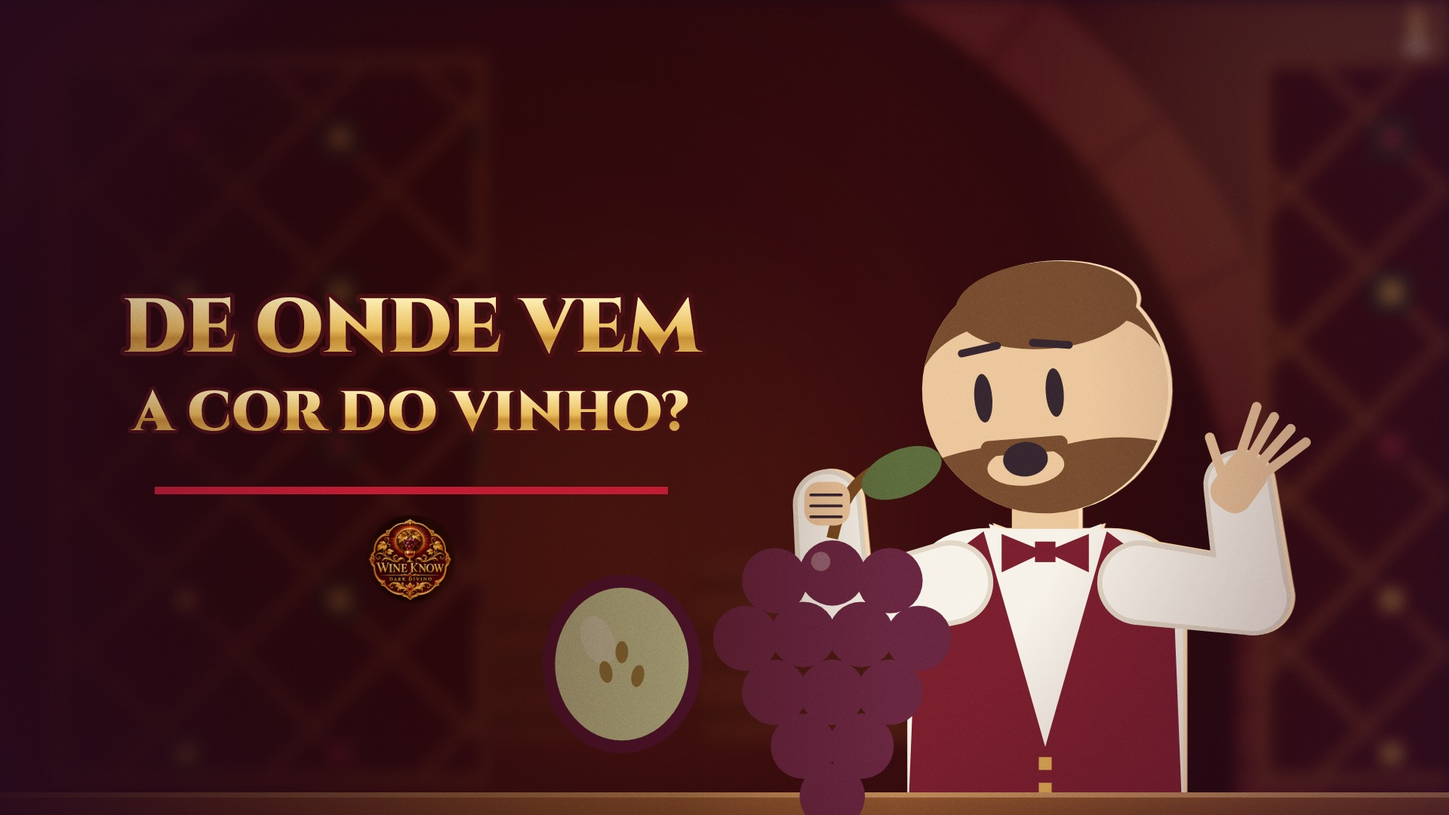
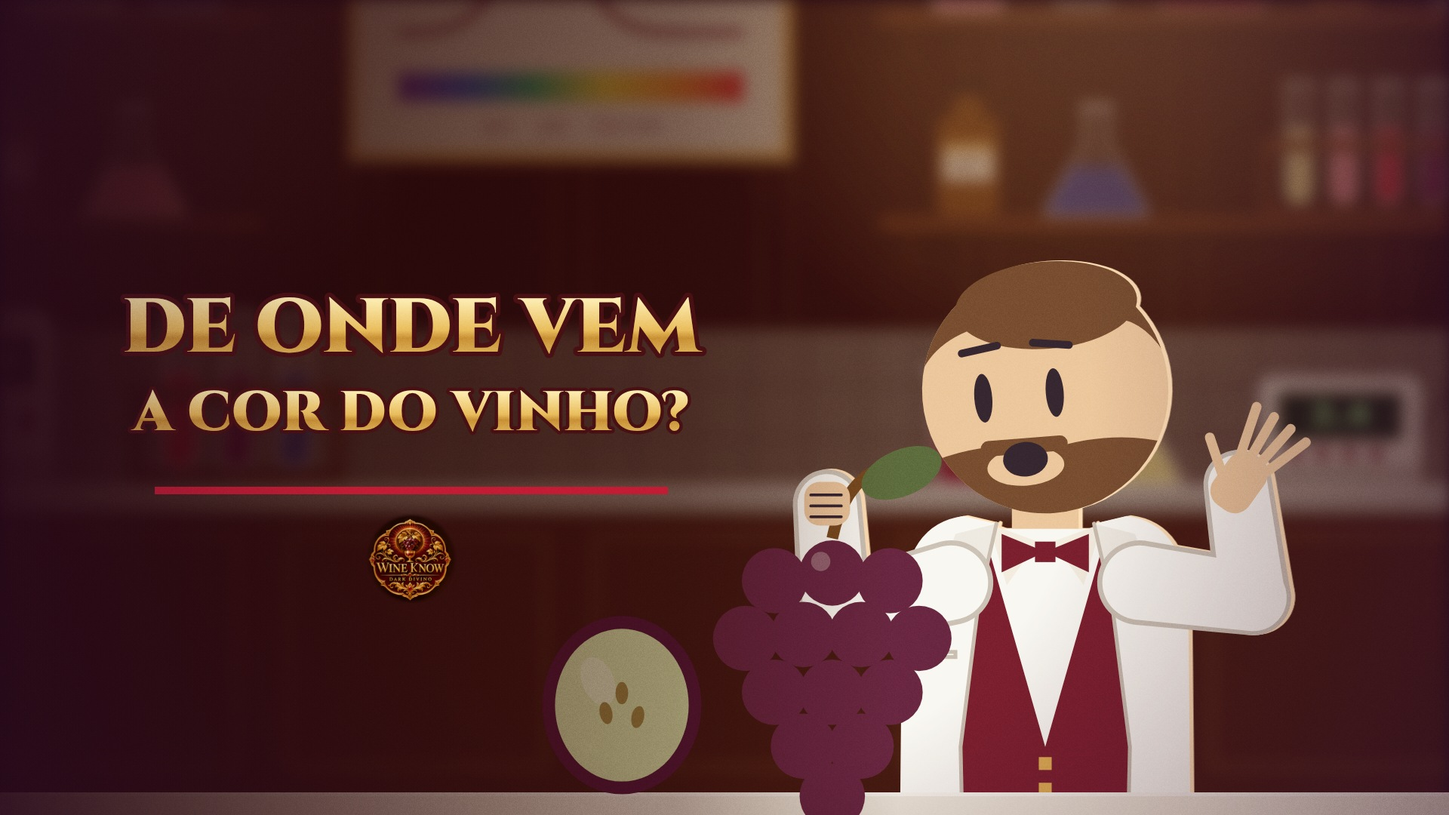
Video 10: thumb com fundo de laboratorio e projeto de cenas
Claude-Session: https://claude.ai/code/session_01Xc7qjeV8m98AoCZPYGJz9u

diff --git a/pauta/10-tinto-branco/sets_lab.js b/pauta/10-tinto-branco/sets_lab.js
@@ -1,0 +1,167 @@
+// ---------- vídeo 10 "De onde vem a cor do vinho?" — LABORATÓRIO de análise de vinho (madeira escura, luz quente, bancada clara/inox) ----------
+// cores de antocianina: vermelho (ácido) -> roxo -> azul (menos ácido)
+const ANT={red:'#C0182E',purple:'#5A1450',blue:'#2A3A8E',wine:'#7A1028',young:'#4E0E3A',brick:'#9A4A26',rose:'#E8788A',white:'#E8D98A',orange:'#D9862E'};
+// tubo de ensaio: base = fundo arredondado; liquido sempre dentro do vidro
+function testTube(x,cx,base,h,col,lv=.6,w=34){x.save();const r=w/2,top=base-h;
+ const shape=()=>{x.beginPath();x.moveTo(cx-r,top);x.lineTo(cx-r,base-r);x.arc(cx,base-r,r,Math.PI,0,true);x.lineTo(cx+r,top);x.closePath()};
+ shape();x.fillStyle='rgba(230,240,245,.16)';x.fill();
+ if(lv>0&&col){x.save();shape();x.clip();x.fillStyle=col;x.fillRect(cx-r-2,base-h*lv,w+4,h*lv+2);x.fillStyle='rgba(255,255,255,.28)';x.fillRect(cx-r,base-h*lv,w,3);x.restore()}
+ shape();x.strokeStyle='rgba(235,240,245,.75)';x.lineWidth=3;x.stroke();x.fillStyle='rgba(255,255,255,.35)';x.fillRect(cx-r+6,top+10,4,h-r-20);
+ x.strokeStyle='rgba(235,240,245,.85)';x.lineWidth=5;x.beginPath();x.moveTo(cx-r-4,top);x.lineTo(cx+r+4,top);x.stroke();x.restore()}
+// estante de tubos (madeira) com tubos coloridos
+function tubeRack(x,cx,base,cols,s=1,lv=.62){x.save();x.translate(cx,base);x.scale(s,s);const n=cols.length,w=n*56+40;
+ x.fillStyle='#4A2414';x.fillRect(-w/2,-14,w,14);x.fillRect(-w/2,-14,10,-0);
+ cols.forEach((c,i)=>testTube(x,-w/2+48+i*56,-16,150,c,lv,32));
+ x.fillStyle='#6A3A1E';x.fillRect(-w/2,-96,w,16);x.fillStyle='rgba(0,0,0,.25)';x.fillRect(-w/2,-82,w,4);
+ x.fillStyle='#4A2414';x.fillRect(-w/2,-96,12,96);x.fillRect(w/2-12,-96,12,96);x.restore()}
+// béquer graduado
+function beaker(x,cx,base,w,h,col,lv=.55){x.save();const L_=cx-w/2,R=cx+w/2,top=base-h;
+ const shape=()=>{x.beginPath();x.moveTo(L_-8,top);x.lineTo(L_,top+10);x.lineTo(L_,base-8);x.quadraticCurveTo(L_,base,L_+8,base);x.lineTo(R-8,base);x.quadraticCurveTo(R,base,R,base-8);x.lineTo(R,top);x.closePath()};
+ shape();x.fillStyle='rgba(230,240,245,.14)';x.fill();
+ if(lv>0&&col){x.save();shape();x.clip();x.fillStyle=col;x.fillRect(L_-10,base-h*lv,w+20,h*lv);x.fillStyle='rgba(255,255,255,.25)';x.fillRect(L_,base-h*lv,w,3);x.restore()}
+ shape();x.strokeStyle='rgba(235,240,245,.75)';x.lineWidth=3;x.stroke();
+ x.strokeStyle='rgba(235,240,245,.55)';x.lineWidth=2;for(let i=1;i<5;i++){const y=base-h*i/5.4;x.beginPath();x.moveTo(L_+6,y);x.lineTo(L_+(i%2?26:16),y);x.stroke()}x.restore()}
+// erlenmeyer
+function erlen(x,cx,base,s,col,lv=.4){x.save();x.translate(cx,base);x.scale(s,s);
+ const shape=()=>{x.beginPath();x.moveTo(-14,-120);x.lineTo(-14,-80);x.lineTo(-56,-6);x.quadraticCurveTo(-58,0,-50,0);x.lineTo(50,0);x.quadraticCurveTo(58,0,56,-6);x.lineTo(14,-80);x.lineTo(14,-120);x.closePath()};
+ shape();x.fillStyle='rgba(230,240,245,.14)';x.fill();if(col){x.save();shape();x.clip();x.fillStyle=col;x.fillRect(-60,-120*lv,120,120*lv);x.restore()}
+ shape();x.strokeStyle='rgba(235,240,245,.7)';x.lineWidth=3;x.stroke();x.fillStyle='rgba(235,240,245,.8)';x.fillRect(-18,-124,36,6);x.restore()}
+// frasco de reagente com rótulo
+function reagent(x,cx,base,s,glass,col){x.save();x.translate(cx,base);x.scale(s,s);x.fillStyle=glass;x.beginPath();x.roundRect(-30,-96,60,96,10);x.fill();x.fillRect(-14,-118,28,24);
+ x.fillStyle='#1A1012';x.fillRect(-17,-130,34,14);x.fillStyle='#EFE6D2';x.fillRect(-24,-70,48,36);x.fillStyle=col||BORDO;x.fillRect(-24,-70,48,8);x.fillStyle='rgba(60,40,30,.6)';x.fillRect(-16,-54,32,3);x.fillRect(-16,-46,24,3);x.restore()}
+// pHmetro: caixa com visor + eletrodo num béquer
+function phMeter(x,cx,base,s,val,col,glow=1){x.save();x.translate(cx,base);x.scale(s,s);
+ x.fillStyle='#D8D4CC';x.beginPath();x.roundRect(-90,-120,180,120,14);x.fill();x.fillStyle='#A9A49A';x.fillRect(-90,-22,180,22);
+ x.fillStyle='#14231C';x.beginPath();x.roundRect(-70,-104,140,56,8);x.fill();
+ x.fillStyle=`rgba(140,255,170,${.9*glow})`;x.font='700 34px monospace';x.textAlign='center';x.textBaseline='middle';x.fillText(val,0,-75);
+ x.fillStyle='#5E1428';for(const bx of [-50,-20,10,40]){x.beginPath();x.arc(bx,-34,8,0,7);x.fill()}
+ x.strokeStyle='#2A2226';x.lineWidth=5;x.beginPath();x.moveTo(90,-60);x.quadraticCurveTo(150,-150,190,-150);x.stroke();
+ x.fillStyle='#2A2226';x.fillRect(184,-160,14,20);x.fillStyle='#E0E6E8';x.fillRect(186,-140,10,110);x.restore();
+ beaker(x,cx+191*s,base,90*s,90*s,col,.6)}
+// espectrofotômetro: aparelho com cubeta; feixe de luz atravessa (beam 0..1); out = cor do feixe que sai
+function spectro(x,cx,base,s,t,beam=1,col=ANT.wine,out='rgba(255,70,80,1)'){x.save();x.translate(cx,base);x.scale(s,s);
+ // corpo
+ let g=x.createLinearGradient(0,-170,0,0);g.addColorStop(0,'#E4E0D8');g.addColorStop(1,'#B8B2A6');x.fillStyle=g;x.beginPath();x.roundRect(-170,-170,340,170,18);x.fill();
+ x.fillStyle='#8E8A80';x.fillRect(-170,-26,340,26);x.fillStyle='#2A2226';x.beginPath();x.roundRect(-40,-196,80,34,6);x.fill();// tampa da cubeta
+ // janela de vidro mostrando o feixe
+ x.fillStyle='#120A0E';x.beginPath();x.roundRect(-150,-140,200,70,10);x.fill();
+ if(beam>0){x.save();x.beginPath();x.roundRect(-150,-140,200,70,10);x.clip();
+  const lg=x.createLinearGradient(-150,0,50,0);lg.addColorStop(0,`rgba(255,255,240,${beam})`);lg.addColorStop(.42,`rgba(255,255,240,${beam})`);lg.addColorStop(.6,out.replace(/,1\)$/,`,${beam})`));lg.addColorStop(1,out.replace(/,1\)$/,`,${beam})`));
+  x.fillStyle=lg;x.fillRect(-150,-112,200,14);x.globalAlpha=.35*beam;x.fillRect(-150,-118,200,26);x.restore()}
+ // cubeta com vinho no meio do feixe
+ x.fillStyle='rgba(230,240,245,.35)';x.fillRect(-72,-150,30,90);x.fillStyle=col;x.fillRect(-69,-132,24,70);x.strokeStyle='rgba(240,245,250,.8)';x.lineWidth=2;x.strokeRect(-72,-150,30,90);
+ // visor digital
+ x.fillStyle='#14231C';x.beginPath();x.roundRect(70,-146,84,52,8);x.fill();x.fillStyle=`rgba(140,255,170,.9)`;x.font='700 26px monospace';x.textAlign='center';x.textBaseline='middle';x.fillText('520',112,-120);
+ x.fillStyle=GOLD;x.font='700 15px Cinzel';x.fillText('nm',112,-102);
+ x.fillStyle='#5E1428';for(const bx of [80,112,144]){x.beginPath();x.arc(bx,-62,9,0,7);x.fill()}
+ x.fillStyle='rgba(255,180,94,.9)';x.beginPath();x.arc(-150,-44,6,0,7);x.fill();x.restore()}
+// pendente metálico de laboratório
+function labLamp(x,lx,t){x.strokeStyle='#1A0C10';x.lineWidth=4;x.beginPath();x.moveTo(lx,-400);x.lineTo(lx,40);x.stroke();
+ x.fillStyle='#3A2A26';x.beginPath();x.moveTo(lx-70,90);x.lineTo(lx-28,40);x.lineTo(lx+28,40);x.lineTo(lx+70,90);x.closePath();x.fill();
+ const fl=.92+Math.sin(t*3.1+lx)*.02,gr=x.createRadialGradient(lx,100,4,lx,140,360);gr.addColorStop(0,`rgba(255,200,120,${.55*fl})`);gr.addColorStop(1,'rgba(255,190,110,0)');x.fillStyle=gr;x.fillRect(lx-380,60,760,520);
+ x.fillStyle='#FFE2A8';x.beginPath();x.ellipse(lx,92,58,10,0,0,7);x.fill()}
+// prateleira de vidraria
+function glassShelf(x,x0,x1,y,items){x.fillStyle='#4A2414';x.fillRect(x0,y,x1-x0,14);x.fillStyle='rgba(0,0,0,.35)';x.fillRect(x0,y+14,x1-x0,6);
+ x.fillStyle='#2A140C';x.fillRect(x0+20,y+14,10,30);x.fillRect(x1-30,y+14,10,30);
+ for(const [k,px,c] of items){const bx=x0+px;if(k=='e')erlen(x,bx,y,.7,c,.45);else if(k=='r')reagent(x,bx,y,.8,c=='amber'?'#6A3A14':'rgba(220,230,235,.5)',c=='amber'?GOLD:BORDO);else if(k=='b')beaker(x,bx,y,54,70,c,.5);else if(k=='t')tubeRack(x,bx,y,c,.62);else if(k=='f'){x.save();x.fillStyle='rgba(230,240,245,.16)';x.beginPath();x.arc(bx,y-34,32,0,7);x.fill();x.fillRect(bx-9,y-104,18,50);if(c){x.fillStyle=c;x.beginPath();x.arc(bx,y-34,30,0,Math.PI);x.fill()}x.strokeStyle='rgba(235,240,245,.7)';x.lineWidth=3;x.beginPath();x.arc(bx,y-34,32,0,7);x.stroke();x.restore()}}}
+// cartaz do espectro (a física da cor) na parede
+function spectrumPoster(x,cx,cy,w,h){x.save();x.fillStyle=GOLD;x.fillRect(cx-w/2-8,cy-h/2-8,w+16,h+16);x.fillStyle='#E9DFC8';x.fillRect(cx-w/2,cy-h/2,w,h);
+ const g=x.createLinearGradient(cx-w/2+30,0,cx+w/2-30,0);['#5A2CA8','#2A5ACF','#2AA86A','#E8D23A','#F08A2A','#D8202E'].forEach((c,i,a)=>g.addColorStop(i/(a.length-1),c));
+ x.fillStyle=g;x.fillRect(cx-w/2+30,cy+h/2-62,w-60,24);
+ x.strokeStyle='#5E1428';x.lineWidth=5;x.beginPath();for(let i=0;i<=40;i++){const u=i/40,px=cx-w/2+30+u*(w-60),py=cy+h/2-80-Math.exp(-Math.pow((u-.42)/.16,2))*(h-150)-12;i?x.lineTo(px,py):x.moveTo(px,py)}x.stroke();
+ x.fillStyle='#5E1428';x.font='700 22px Cinzel';x.textAlign='center';x.fillText('ABSORBÂNCIA',cx,cy-h/2+30);x.font='600 18px Cormorant';x.fillText('420     520     620 nm',cx,cy+h/2-16);x.restore()}
+// O LABORATÓRIO (fundo) — mesmo mundo para todas as cenas
+function lab(x,t=0){let g=x.createLinearGradient(0,-300,0,900);g.addColorStop(0,'#16080C');g.addColorStop(1,'#2C0B15');x.fillStyle=g;x.fillRect(-900,-600,W+1800,1900);
+ // painéis de madeira escura
+ x.fillStyle='#24100E';x.fillRect(-900,-600,W+1800,1100);x.strokeStyle='rgba(212,162,76,.10)';x.lineWidth=3;for(let i=-6;i<22;i++){x.strokeRect(i*160+12,-60,136,520)}
+ // azulejo claro de laboratório atrás da bancada do fundo
+ x.fillStyle='#8C8276';x.fillRect(-900,440,W+1800,124);x.strokeStyle='rgba(40,20,20,.35)';x.lineWidth=2;for(let i=-20;i<60;i++){x.beginPath();x.moveTo(i*44,440);x.lineTo(i*44,564);x.stroke()}for(const y of [482,524]){x.beginPath();x.moveTo(-900,y);x.lineTo(W+900,y);x.stroke()}
+ x.fillStyle='rgba(20,6,10,.35)';x.fillRect(-900,440,W+1800,124);
+ // prateleiras de vidraria
+ glassShelf(x,120,720,190,[['e',70,ANT.red],['r',170,'amber'],['f',260,ANT.purple],['r',350,'clear'],['e',450,ANT.white],['b',540,ANT.blue]]);
+ glassShelf(x,120,720,350,[['t',150,[ANT.red,ANT.wine,ANT.purple,ANT.blue]],['r',330,'amber'],['r',400,'amber'],['e',500,ANT.rose]]);
+ glassShelf(x,1200,1800,190,[['b',70,ANT.rose],['r',160,'clear'],['e',260,ANT.wine],['r',360,'amber'],['f',450,ANT.orange],['e',540,ANT.purple]]);
+ glassShelf(x,1200,1800,350,[['r',70,'amber'],['e',170,ANT.blue],['t',380,[ANT.white,ANT.rose,ANT.red,ANT.young]]]);
+ spectrumPoster(x,960,190,330,220);
+ // bancada do fundo (inox) com aparelhos
+ x.fillStyle='#3A1C12';x.fillRect(-900,580,W+1800,320);let sg=x.createLinearGradient(0,560,0,584);sg.addColorStop(0,'#D6D2CA');sg.addColorStop(1,'#8A867E');x.fillStyle=sg;x.fillRect(-900,560,W+1800,22);
+ x.strokeStyle='rgba(212,162,76,.25)';x.lineWidth=3;for(let i=-4;i<14;i++)x.strokeRect(i*240+20,600,200,180);
+ spectro(x,420,560,.8,t,1,ANT.wine);microscope(x,-40,560,.9);tubeRack(x,700,560,[ANT.red,ANT.purple,ANT.blue],.8);
+ beaker(x,1280,560,70,90,ANT.wine,.5);erlen(x,1390,560,.8,ANT.white,.4);phMeter(x,1560,560,.7,'3.4',ANT.wine);
+ for(const lx of [520,1400])labLamp(x,lx,t)}
+// frente da bancada: tampo claro (epóxi branco) com borda inox e armário de madeira escura
+function labFront(f){let g=f.createLinearGradient(0,800,0,1200);g.addColorStop(0,'#3A1C12');g.addColorStop(1,'#120604');f.fillStyle=g;f.fillRect(-900,836,W+1800,600);
+ f.fillStyle='#E6E1D6';f.fillRect(-900,800,W+1800,24);f.fillStyle='rgba(255,255,255,.5)';f.fillRect(-900,800,W+1800,3);
+ g=f.createLinearGradient(0,824,0,838);g.addColorStop(0,'#C9C4BA');g.addColorStop(1,'#6E6A62');f.fillStyle=g;f.fillRect(-900,824,W+1800,14);
+ f.strokeStyle='rgba(212,162,76,.35)';f.lineWidth=3;for(let i=-4;i<12;i++){f.strokeRect(i*300+30,860,260,240);f.fillStyle=GOLD;f.fillRect(i*300+130,880,60,8)}}
+// camadas da casca da uva (corte ampliado)
+function skinLayers(x,cx,cy,w,t,glow=1){x.save();x.beginPath();x.roundRect(cx-w/2,cy-200,w,440,30);x.clip();
+ x.fillStyle='#DCE8B8';x.fillRect(cx-w/2,cy-200,w,440);// polpa
+ const r=rng(7);for(let i=0;i<30;i++){x.strokeStyle='rgba(120,150,80,.45)';x.lineWidth=3;x.beginPath();x.ellipse(cx-w/2+r()*w,cy+30+r()*200,34,24,0,0,7);x.stroke()}
+ x.fillStyle='#2A0A24';x.fillRect(cx-w/2,cy-200,w,34);// cutícula/pele
+ x.fillStyle='rgba(255,255,255,.25)';x.fillRect(cx-w/2,cy-196,w,6);
+ for(let row=0;row<3;row++)for(let i=0;i<Math.ceil(w/70)+1;i++){const px=cx-w/2+i*70+(row%2)*35,py=cy-140+row*52;
+  x.fillStyle=row==0?'#4A0E3A':row==1?'#6A1A4E':'#8A3A6A';x.beginPath();x.ellipse(px,py,34,24,0,0,7);x.fill();
+  x.fillStyle=`rgba(200,40,110,${(.35+.25*Math.sin(t*3+i+row))*glow})`;x.beginPath();x.ellipse(px,py,16,11,0,0,7);x.fill()}
+ x.restore();x.strokeStyle=GOLD;x.lineWidth=5;x.beginPath();x.roundRect(cx-w/2,cy-200,w,440,30);x.stroke()}
+// mirtilo, amora, repolho roxo
+function blueberries(x,cx,cy,s){x.save();x.translate(cx,cy);x.scale(s,s);for(const [px,py] of [[-50,20],[45,26],[0,-30]]){x.fillStyle='#2E2A6A';x.beginPath();x.arc(px,py,52,0,7);x.fill();x.fillStyle='rgba(170,180,230,.35)';x.beginPath();x.arc(px-14,py-16,18,0,7);x.fill();
+ x.fillStyle='#15123A';x.beginPath();for(let k=0;k<5;k++){const a=k*1.2566;x.lineTo(px+Math.cos(a)*12,py-30+Math.sin(a)*12);x.lineTo(px+Math.cos(a+.63)*5,py-30+Math.sin(a+.63)*5)}x.closePath();x.fill()}x.restore()}
+function blackberry(x,cx,cy,s){x.save();x.translate(cx,cy);x.scale(s,s);x.fillStyle='#3E6A2A';for(let k=0;k<5;k++){x.save();x.rotate(-1.2+k*.6);x.beginPath();x.ellipse(0,-96,10,34,0,0,7);x.fill();x.restore()}
+ const r=rng(3);for(let i=0;i<34;i++){const a=r()*7,d=Math.sqrt(r())*1,px=Math.cos(a)*d*60,py=Math.sin(a)*d*80;x.fillStyle=i%3?'#2A0A2A':'#3E1240';x.beginPath();x.arc(px,py,20,0,7);x.fill();x.fillStyle='rgba(255,200,230,.3)';x.beginPath();x.arc(px-6,py-6,5,0,7);x.fill()}x.restore()}
+function redCabbage(x,cx,cy,s){x.save();x.translate(cx,cy);x.scale(s,s);x.fillStyle='#6A1E5E';x.beginPath();x.arc(0,0,110,0,7);x.fill();x.fillStyle='#7E2A70';x.beginPath();x.arc(10,8,80,0,7);x.fill();
+ x.strokeStyle='rgba(230,200,240,.55)';x.lineWidth=5;for(const a of [-2.4,-1.6,-.8,0,.8,1.6,2.4]){x.beginPath();x.moveTo(0,40);x.quadraticCurveTo(Math.cos(a)*50,Math.sin(a)*50+20,Math.cos(a)*100,Math.sin(a)*100);x.stroke()}x.restore()}
+// tanque de fermentação em corte: suco + chapéu de cascas; cor u 0..1; bolhas só dentro do tanque
+function tank(x,cx,base,s,u,t){x.save();x.translate(cx,base);x.scale(s,s);const w=300,h=460;
+ let g=x.createLinearGradient(-w/2,0,w/2,0);g.addColorStop(0,'#8A867E');g.addColorStop(.5,'#E2DED6');g.addColorStop(1,'#7A766E');x.fillStyle=g;x.beginPath();x.roundRect(-w/2-16,-h-16,w+32,h+16,20);x.fill();
+ x.fillStyle='#120A0E';x.beginPath();x.roundRect(-w/2,-h,w,h,10);x.fill();
+ x.save();x.beginPath();x.roundRect(-w/2,-h,w,h,10);x.clip();
+ x.fillStyle=mixC('#D9D69A',ANT.wine,u);x.fillRect(-w/2,-h+90,w,h);
+ const r=rng(11);for(let i=0;i<22;i++){const bx=-w/2+20+r()*(w-40),sp=40+r()*40,by=-((t*sp+r()*h)%(h-120))-10;x.fillStyle='rgba(255,240,220,.4)';x.beginPath();x.arc(bx,by,3+r()*3,0,7);x.fill()}
+ for(let i=0;i<40;i++){const bx=-w/2+r()*w,by=-h+90+r()*50;x.fillStyle=i%2?'#3A0E2E':'#5A1A44';x.beginPath();x.arc(bx,by,16,0,7);x.fill()}
+ // cor saindo das cascas
+ for(let i=0;i<6;i++){const bx=-w/2+30+i*48,yy=-h+140+((t*30+i*40)%200);x.fillStyle=`rgba(122,16,40,${.35*Math.min(1,u*2)})`;x.beginPath();x.ellipse(bx,yy,10,26,0,0,7);x.fill()}
+ x.restore();x.fillStyle='#5E5A52';x.fillRect(-60,-h-40,120,26);x.fillRect(-w/2,-6,w,8);x.restore()}
+// molécula: anel de antocianina (hexágonos) e cadeia de taninos
+function hexRing(x,cx,cy,r,col){x.beginPath();for(let k=0;k<6;k++){const a=k*Math.PI/3+Math.PI/6;x.lineTo(cx+Math.cos(a)*r,cy+Math.sin(a)*r)}x.closePath();x.strokeStyle=col;x.lineWidth=6;x.stroke()}
+function anthoMol(x,cx,cy,s,col=ANT.red){x.save();x.translate(cx,cy);x.scale(s,s);const r=34,dx=r*Math.sqrt(3);hexRing(x,-dx/2,0,r,col);hexRing(x,dx/2,0,r,col);hexRing(x,dx*1.5+20,-r*.6,r,col);x.strokeStyle=col;x.lineWidth=6;x.beginPath();x.moveTo(dx,-r*.3);x.lineTo(dx*1.5+20-dx/2+4,-r*.5);x.stroke();
+ x.fillStyle=col;for(const [px,py] of [[-dx,-r*1.4],[dx*2.1+20,-r*1.7],[-dx*.4,r*1.6]]){x.beginPath();x.arc(px,py,8,0,7);x.fill()}x.restore()}
+function tanninChain(x,cx,cy,s,col='#C8A060'){x.save();x.translate(cx,cy);x.scale(s,s);for(let i=0;i<4;i++){hexRing(x,i*62-93,(i%2?18:-18),30,col)}x.strokeStyle=col;x.lineWidth=5;x.beginPath();for(let i=0;i<4;i++)x.lineTo(i*62-93,(i%2?18:-18));x.stroke();x.restore()}
+// taça inclinada sobre toalha branca, vinho sempre nivelado, com degradê na borda (young=roxo, old=tijolo)
+function tiltGlass(x,cx,cy,s,ang,core,rim,side=0){x.save();x.translate(cx,cy);x.scale(s,s);const bw=60,top=-200,bc=[Math.sin(ang)*150,-Math.cos(ang)*150],ol='rgba(70,50,46,.75)';
+ const bowl=()=>{x.beginPath();x.moveTo(-8,-90);x.quadraticCurveTo(-bw-6,-110,-bw,-150);x.lineTo(-bw+6,top);x.lineTo(bw-6,top);x.lineTo(bw,-150);x.quadraticCurveTo(bw+6,-110,8,-90);x.closePath()};
+ // braço de jaleco vindo da lateral, mão na HASTE
+ const hx=Math.sin(ang)*48,hy=-Math.cos(ang)*48;if(side){x.save();x.strokeStyle='#BDBAB2';x.lineWidth=58;x.lineCap='round';x.beginPath();x.moveTo(hx+side*420,hy+60);x.lineTo(hx+side*40,hy+6);x.stroke();x.strokeStyle='#F7F6F1';x.lineWidth=50;x.stroke();x.restore()}
+ x.save();x.rotate(ang);x.fillStyle='rgba(225,215,200,.9)';x.fillRect(-5,-92,10,92);x.beginPath();x.ellipse(0,0,44,9,0,0,7);x.fill();x.strokeStyle=ol;x.lineWidth=2.5;x.strokeRect(-5,-92,10,92);x.beginPath();x.ellipse(0,0,44,9,0,0,7);x.stroke();
+ bowl();x.fillStyle='rgba(255,255,255,.35)';x.fill();
+ x.save();bowl();x.clip();x.rotate(-ang);const gr=x.createRadialGradient(bc[0]-Math.sign(ang)*10,bc[1]+30,6,bc[0]-Math.sign(ang)*10,bc[1]+30,80);gr.addColorStop(0,core);gr.addColorStop(.55,core);gr.addColorStop(1,rim);x.fillStyle=gr;x.fillRect(-300,bc[1]-6,600,400);x.restore();
+ bowl();x.strokeStyle=ol;x.lineWidth=3.5;x.stroke();x.restore();
+ if(side)gripHand(x,hx,hy,ang,C10,.85);x.restore()}
+function whiteCloth(x,cx,cy,w,h){x.save();x.fillStyle='#F2EEE4';x.beginPath();x.moveTo(cx-w/2,cy-h/2);x.lineTo(cx+w/2,cy-h/2+10);x.lineTo(cx+w/2-10,cy+h/2);x.lineTo(cx-w/2+8,cy+h/2-8);x.closePath();x.fill();x.strokeStyle='rgba(0,0,0,.08)';x.lineWidth=3;for(let i=1;i<6;i++){x.beginPath();x.moveTo(cx-w/2+i*w/6,cy-h/2);x.lineTo(cx-w/2+i*w/6,cy+h/2);x.stroke()}x.restore()}
+// gráfico de barras do espectrofotômetro (420 amarelo · 520 vermelho · 620 azul)
+function absChart(x,cx,base,vals,a=[1,1,1]){x.save();const L_=[['420 nm','AMARELO','#E0B83A'],['520 nm','VERMELHO','#C0182E'],['620 nm','AZUL','#3A5ACF']];
+ x.strokeStyle=GOLD;x.lineWidth=5;x.beginPath();x.moveTo(cx-330,base-400);x.lineTo(cx-330,base);x.lineTo(cx+330,base);x.stroke();
+ L_.forEach(([nm,nome,c],i)=>{const bx=cx-200+i*200,h=vals[i]*360*a[i];x.fillStyle=c;x.fillRect(bx-60,base-h,120,h);x.strokeStyle=GOLD2;x.lineWidth=3;x.strokeRect(bx-60,base-h,120,h);
+  x.globalAlpha=a[i];goldText(x,nome,bx,base+40,30,'Cinzel',900);goldText(x,nm,bx,base+80,26,'Cinzel',700);x.globalAlpha=1});x.restore()}
+// feixe de luz branca -> taça -> sai vermelho; o verde é "engolido"
+function lightThroughGlass(x,u,t){x.save();const y=560;
+ // lanterna
+ let lg=x.createLinearGradient(0,y-60,0,y+60);lg.addColorStop(0,'#E4E0D8');lg.addColorStop(1,'#8E8A80');x.fillStyle=lg;x.beginPath();x.roundRect(150,y-60,180,120,14);x.fill();x.fillStyle=GOLD;x.fillRect(310,y-64,26,128);x.fillStyle='#5E5A52';x.fillRect(200,y+60,80,90);x.fillRect(160,y+140,160,16);x.fillStyle='#14231C';x.beginPath();x.roundRect(175,y-36,90,40,6);x.fill();x.fillStyle='rgba(255,180,94,.9)';x.beginPath();x.arc(190,y+28,6,0,7);x.fill();const gw=x.createRadialGradient(340,y,4,340,y,90);gw.addColorStop(0,'rgba(255,250,230,.9)');gw.addColorStop(1,'rgba(255,250,230,0)');x.fillStyle=gw;x.fillRect(250,y-90,180,180);
+ const k=clamp(u*2);const xb=340+k*(840-340);
+ const rainbow=['#D8202E','#F08A2A','#E8D23A','#2AA86A','#2A5ACF','#5A2CA8'];
+ rainbow.forEach((c,i)=>{x.fillStyle=c;x.globalAlpha=.85;x.fillRect(340,y-36+i*12,xb-340,12)});x.globalAlpha=1;
+ x.fillStyle='rgba(255,255,240,.35)';x.fillRect(340,y-40,xb-340,80);
+ const k2=clamp(u*2-1);if(k2>0){const xe=1080+k2*(1720-1080);const gr=x.createLinearGradient(1080,0,1720,0);gr.addColorStop(0,'rgba(216,32,46,.95)');gr.addColorStop(1,'rgba(216,32,46,.75)');x.fillStyle=gr;x.fillRect(1080,y-24,xe-1080,48);x.fillStyle='rgba(255,90,90,.3)';x.fillRect(1080,y-40,xe-1080,80)}
+ x.restore()}
+// jaleco branco ABERTO por cima do colete (colete e gravata vinho continuam visíveis)
+const _outfitBase=outfit;
+outfit=function(x,ch,br){_outfitBase(x,ch,br);if(!ch.labcoat)return;const y=-8+br,B=TH+20,c=ch.labcoat,e='#B9B5AC';
+ for(const sd of [-1,1]){x.fillStyle=c;x.beginPath();x.moveTo(sd*38,y-4);x.lineTo(sd*(TW/2-44),y-10);x.quadraticCurveTo(sd*(TW/2+2),y-4,sd*(TW/2+4),y+60);x.lineTo(sd*(TW/2+6),B);x.lineTo(sd*64,B);x.lineTo(sd*66,y+170);x.lineTo(sd*52,y+58);x.closePath();x.fill();
+  // lapela
+  x.fillStyle='#E9E7E0';x.beginPath();x.moveTo(sd*38,y-4);x.lineTo(sd*52,y+58);x.lineTo(sd*84,y+44);x.lineTo(sd*70,y+4);x.closePath();x.fill();
+  x.strokeStyle=e;x.lineWidth=3;x.beginPath();x.moveTo(sd*38,y-4);x.lineTo(sd*52,y+58);x.lineTo(sd*66,y+170);x.lineTo(sd*64,B);x.stroke();
+  x.beginPath();x.moveTo(sd*52,y+58);x.lineTo(sd*84,y+44);x.stroke()}
+ // bolso no peito com caneta
+ x.strokeStyle=e;x.lineWidth=3;x.strokeRect(-100,y+96,30,4);x.fillStyle=GOLD;x.fillRect(-92,y+80,5,22);x.fillStyle='#2A2226';x.fillRect(-84,y+84,5,18)}
+const C10L=Object.assign({},C10,{cloth:'#F7F6F1',hood:'#BDBAB2',collar:'#EFE9DD',labcoat:'#F7F6F1'});
+sommActor=function(cam,p){const h=layer('h',cam);return actor(h,'somm',C10L,p,cam,'rgba(255,180,94,1)',1)};

diff --git a/pauta/10-tinto-branco/scenes_lab.js b/pauta/10-tinto-branco/scenes_lab.js
@@ -1,0 +1,109 @@
+// ---------- cenas do vídeo "De onde vem a cor do vinho?" — Sommelier de jaleco num LABORATÓRIO de vinho; cena i = fala i ----------
+function watermark(){if(!LOGO.complete)return;ctx.save();ctx.setTransform(1,0,0,1,0,0);ctx.globalAlpha=.075;ctx.filter='blur(.6px)';ctx.drawImage(LOGO,960-230,720-221,460,442);ctx.restore()}
+const LB={set:lab,front:labFront};
+const ap=(t,i,w,d=.35)=>ease(seg(t,wt(i,w)-.1,wt(i,w)-.1+d));
+function card(t,s,set,title,dim=.72){veil(null,t,set,dim);const g=layer('g',null);goldText(g,title,960,165,Math.min(62,Math.floor(1500/title.length)));ornament(g,960,232,560);return g}
+const done=(g,t,s)=>blit(ctx,L.g,0,seg(t,T[s],T[s]+.4));
+const fade=(g,a,fn)=>{if(a<=0)return;g.save();g.globalAlpha=a;fn();g.restore()};
+const C3=(t,s,set,title,fn,dim)=>{const g=card(t,s,set,title,dim);fn(g);done(g,t,s)};
+const mixC=(a,b,u)=>{const p=h=>[1,3,5].map(i=>parseInt(h.slice(i,i+2),16)),A=p(a),B=p(b);return '#'+A.map((v,i)=>Math.round(v+(B[i]-v)*u).toString(16).padStart(2,'0')).join('')};
+const lbl=(g,txt,x0,y0,sz=34,a=1)=>fade(g,a,()=>goldText(g,txt,x0,y0,sz,'Cinzel',900));
+const SC=[null,
+ // 1 laboratório, jaleco
+ (t,c,s)=>talkScene(t,c,s,Object.assign({bottles:[['red',1100]],gest:[[0,'open'],[3.4,'point']],props:(f,t)=>{tubeRack(f,520,806,[ANT.red,ANT.purple,ANT.blue]);beaker(f,1330,806,90,110,ANT.wine,.55)},
+  chips:[['LABORATÓRIO DE VINHO',430,300,wt(1,'laboratório')],['BOTA O JALECO!',1500,360,wt(1,'jaleco')]],face:t=>({brow:.7,mouth:.65})},LB)),
+ // 2 uva cortada
+ (t,c,s)=>C3(t,s,lab,'UMA UVA TINTA AO MEIO',g=>{const u=ap(t,2,'meio',.6);
+  g.fillStyle='#3A1030';g.beginPath();g.ellipse(560,560,150,168,0,0,7);g.fill();g.fillStyle='rgba(255,255,255,.22)';g.beginPath();g.ellipse(510,500,34,54,-.4,0,7);g.fill();g.strokeStyle='#3E6A2A';g.lineWidth=12;g.beginPath();g.moveTo(560,394);g.lineTo(580,350);g.stroke();
+  fade(g,u,()=>{halvedGrape(g,980,560,150);arrow(g,740,560,800,560,GOLD2,6)});
+  chip(g,1470,420,'CASCA ROXA',ap(t,2,'roxa'));chip(g,1470,560,'POLPA CLARINHA',ap(t,2,'clarinha'))},.62),
+ // 3 camadas da casca
+ (t,c,s)=>C3(t,s,lab,'A COR MORA NA CASCA',g=>{skinLayers(g,700,560,520,t,.4+.6*ap(t,3,'pigmentos',.8));
+  fade(g,ap(t,3,'camadas',.5),()=>arrow(g,1110,400,980,420,GOLD2,6));chip(g,1380,400,'CAMADAS DA CASCA',ap(t,3,'camadas'));
+  fade(g,ap(t,3,'antocianinas',.5),()=>{plaque(g,1380,620,520,170);goldText(g,'ANTOCIANINAS',1380,610,52)})},.62),
+ // 4 mirtilo, amora, repolho
+ (t,c,s)=>C3(t,s,lab,'O MESMO PIGMENTO',g=>{const a1=ap(t,4,'mirtilo',.5),a2=ap(t,4,'amora',.5),a3=ap(t,4,'repolho',.5);
+  fade(g,a1,()=>blueberries(g,480,540,1.3));fade(g,a2,()=>blackberry(g,960,560,1.3));fade(g,a3,()=>redCabbage(g,1440,550,1.3));
+  lbl(g,'MIRTILO',480,780,44,a1);lbl(g,'AMORA',960,780,44,a2);lbl(g,'REPOLHO ROXO',1440,780,44,a3)},.62),
+ // 5 tanque: suco de molho com as cascas
+ (t,c,s)=>C3(t,s,lab,'NA VINÍCOLA',g=>{const u=easeIO(seg(t,wt(5,'molho'),T[6]-.6));tank(g,680,850,1.25,u,t);
+  chip(g,1380,360,'SUCO + CASCAS',ap(t,5,'cascas'));chip(g,1380,480,'VÁRIOS DIAS',ap(t,5,'dias'));chip(g,1380,600,'O ÁLCOOL PUXA A COR',ap(t,5,'álcool'))},.62),
+ // 6 maceração
+ (t,c,s)=>talkScene(t,c,s,Object.assign({bottles:[['red',1100]],gest:[[0,'thinking'],[3.2,'open'],[6.5,'rest']],props:(f,t)=>{grapesC(f,520,740,1.1);glassW(f,1330,806,1.1,.55,ANT.wine)},
+  chips:[['MACERAÇÃO',430,300,wt(6,'maceração')],['2 A 7 DIAS',1500,330,wt(6,'dois')],['CASCA GROSSA = + COR',430,430,wt(6,'grossa')]],face:t=>({brow:.6,mouth:.5})},LB)),
+ // 7 a química
+ (t,c,s)=>C3(t,s,lab,'A QUÍMICA DE VERDADE',g=>{const m=seg(t,wt(7,'muda'),wt(7,'muda')+3),k=(m*3)%3,cols=[ANT.red,'#7A1A70','#3A4AB8'],col=m>0?mixC(cols[Math.floor(k)],cols[(Math.floor(k)+1)%3],k%1):ANT.red;
+  anthoMol(g,560,540,2.3,col);chip(g,1400,420,'ANTOCIANINA',ap(t,7,'antocianina'));chip(g,1400,560,'MUDA COM A ACIDEZ',ap(t,7,'acidez'))},.62),
+ // 8 tubos vermelho -> roxo -> azul
+ (t,c,s)=>C3(t,s,lab,'A COR MUDA COM A ACIDEZ',g=>{const a=[ap(t,8,'vermelha',.6),ap(t,8,'roxo',.6),ap(t,8,'azul',.6)],cols=[ANT.red,'#6A1A66','#2E44B0'],nm=['VERMELHO','ROXO','AZUL'];
+  g.fillStyle='#4A2414';g.fillRect(420,700,820,22);
+  for(let i=0;i<3;i++){const cx=560+i*270;testTube(g,cx,700,380,a[i]>0?cols[i]:null,.0+.68*a[i],96);lbl(g,nm[i],cx,752,36,a[i])}
+  fade(g,a[0],()=>{arrow(g,470,815,1190,815,GOLD2,6);goldText(g,'MAIS ÁCIDO',560,855,28,'Cinzel',700);goldText(g,'MENOS ÁCIDO',1100,855,28,'Cinzel',700)});
+  fade(g,ap(t,8,'repolho',.5),()=>{redCabbage(g,1540,480,.9);goldText(g,'REPOLHO ROXO',1540,640,34,'Cinzel',900)})},.62),
+ // 9 pHmetro e duas taças
+ (t,c,s)=>talkScene(t,c,s,Object.assign({bottles:[['red',1100]],gest:[[0,'point'],[3.5,'open'],[7,'rest']],props:(f,t)=>{const late=t>wt(9,'menos');phMeter(f,470,806,.9,late?'pH 3,8':'pH 3,2',late?ANT.young:ANT.red);
+   glassW(f,1290,806,1.1,.55,ANT.red);glassW(f,1450,806,1.1,.55,ANT.young);goldText(f,'pH 3,2',1290,570,30,'Cinzel',900);goldText(f,'pH 3,8',1450,570,30,'Cinzel',900)},
+  chips:[['MAIS ÁCIDO = VERMELHO',430,300,wt(9,'vivo')],['MENOS ÁCIDO = ROXO',430,420,wt(9,'roxo')]],face:t=>({brow:.5,mouth:.55})},LB)),
+ // 10 dióxido de enxofre
+ (t,c,s)=>C3(t,s,lab,'O CONSERVANTE DO VINHO',g=>{const u1=ap(t,10,'apaga',.9),u2=ap(t,10,'temporário',1.2);glassW(g,720,800,2.6,.6,mixC(ANT.wine,'#D9A0AA',u1*(1-u2)));
+  fade(g,ap(t,10,'dióxido',.5),()=>{reagent(g,400,800,1.6,'rgba(220,230,235,.5)',GOLD);goldText(g,'SO2',400,700,30,'Cinzel',900)});
+  chip(g,1380,360,'DIÓXIDO DE ENXOFRE',ap(t,10,'dióxido'));chip(g,1380,480,'APAGA A COR...',ap(t,10,'apaga'));chip(g,1380,600,'...MAS ELA VOLTA!',ap(t,10,'temporário'))},.62),
+ // 11 antocianina + tanino
+ (t,c,s)=>C3(t,s,lab,'PIGMENTOS MAIS FIRMES',g=>{const m=easeIO(seg(t,wt(11,'juntam'),wt(11,'juntam')+1.4)),glow=ap(t,11,'firmes',.6);
+  if(glow>0){const gr=g.createRadialGradient(960,540,10,960,540,330);gr.addColorStop(0,`rgba(242,210,122,${.35*glow})`);gr.addColorStop(1,'rgba(242,210,122,0)');g.fillStyle=gr;g.fillRect(560,200,800,680)}
+  anthoMol(g,lerp(400,700,m),540,1.6,ANT.red);tanninChain(g,lerp(1480,1170,m),540,1.4);
+  lbl(g,'ANTOCIANINA',lerp(480,720,m),400,38,ap(t,11,'antocianinas')*(1-glow));lbl(g,'TANINO',lerp(1480,1170,m),400,38,ap(t,11,'taninos')*(1-glow));
+  chip(g,960,760,'PIGMENTO FIRME: A COR RESISTE',ap(t,11,'resiste'))},.62),
+ // 12 a física: o vinho engole o verde
+ (t,c,s)=>C3(t,s,lab,'A FÍSICA DA COR',g=>{const u=.5*seg(t,T[s]+.3,wt(12,'engole'))+.5*seg(t,wt(12,'passar')-.2,wt(12,'passar')+.8);lightThroughGlass(g,u,t);glassW(g,960,760,2.2,.55,ANT.wine);
+  chip(g,960,330,'O VERDE É ENGOLIDO',ap(t,12,'verde'));chip(g,1460,440,'O VERMELHO PASSA',ap(t,12,'passar'));lbl(g,'LUZ BRANCA',255,660,30,ap(t,12,'física'))},.62),
+ // 13 espectrofotômetro na bancada
+ (t,c,s)=>talkScene(t,c,s,Object.assign({bottles:[['red',1100]],gest:[[0,'open'],[2.6,'point'],[8,'rest']],props:(f,t)=>{spectro(f,1400,806,1.05,t,ap(t,13,'joga',.6),ANT.wine);tubeRack(f,520,806,[ANT.red,ANT.wine,ANT.young])},
+  chips:[['ESPECTROFOTÔMETRO',430,300,wt(13,'espectrofotômetro')],['MEDE QUANTO PASSA',430,420,wt(13,'mede')]],face:t=>({brow:.8,mouth:.6})},LB)),
+ // 14 gráfico 420/520/620
+ (t,c,s)=>C3(t,s,lab,'TRÊS CORES DE LUZ',g=>{absChart(g,760,740,[.45,.9,.28],[ap(t,14,'amarelo',.5),ap(t,14,'vermelho',.5),ap(t,14,'azul',.5)]);
+  fade(g,ap(t,14,'intensidade',.5),()=>{plaque(g,1440,420,540,170);goldText(g,'INTENSIDADE',1440,395,44);goldText(g,'A SOMA DAS TRÊS',1440,455,28,'Cinzel',700)});
+  fade(g,ap(t,14,'tonalidade',.5),()=>{plaque(g,1440,650,540,170);goldText(g,'TONALIDADE',1440,625,44);goldText(g,'AMARELO / VERMELHO',1440,685,28,'Cinzel',700)})},.62),
+ // 15 com a idade: vermelho cai, amarelo sobe; taça roxa -> tijolo
+ (t,c,s)=>C3(t,s,lab,'COM A IDADE',g=>{const u=easeIO(seg(t,wt(15,'idade'),wt(15,'tijolo')));absChart(g,700,740,[lerp(.4,.75,u),lerp(.9,.45,u),lerp(.3,.12,u)]);
+  fade(g,ap(t,15,'cai',.4),()=>arrow(g,790,470,790,570,'#FF6A6A',10));fade(g,ap(t,15,'sobe',.4),()=>arrow(g,590,560,590,450,'#F2D27A',10));
+  glassW(g,1440,700,2.1,.55,mixC(ANT.young,ANT.brick,u));lbl(g,u<.5?'JOVEM':'VELHO',1440,760,40);fade(g,ap(t,15,'tijolo',.5),()=>chip(g,1440,830,'COR DE TIJOLO',1))},.62),
+ // 16 rosé e blanc de noirs
+ (t,c,s)=>talkScene(t,c,s,Object.assign({bottles:[['red',1100]],gest:[[0,'thinking'],[3,'open'],[7.5,'point']],props:(f,t)=>{grapesC(f,520,740,1.1);glassW(f,1300,806,1.1,.55,ANT.rose);glassW(f,1460,806,1.1,.55,ANT.white)},
+  chips:[['ROSÉ: POUCAS HORAS',430,300,wt(16,'horas')],['BRANCO DE UVA TINTA',430,420,wt(16,'branco')],['BLANC DE NOIRS',1500,330,wt(16,'blanc')]],face:t=>({brow:.7,mouth:.6})},LB)),
+ // 17 vinho laranja, Geórgia
+ (t,c,s)=>C3(t,s,lab,'O VINHO LARANJA',g=>{for(const [x0,k] of [[400,1.2],[660,1.45],[900,1.15]])clayJar(g,x0,820,k);g.fillStyle='#4A2A18';g.beginPath();g.ellipse(650,830,420,60,0,0,7);g.fill();
+  glassW(g,1160,820,2,.55,mixC(ANT.white,ANT.orange,ap(t,17,'laranja',1.2)));
+  chip(g,1560,360,'UVA BRANCA + CASCA',ap(t,17,'branca'));chip(g,1560,480,'GEÓRGIA',ap(t,17,'geórgia'));fade(g,ap(t,17,'milhares',.5),()=>{plaque(g,1560,640,420,150);goldText(g,'HÁ MILHARES',1560,620,40);goldText(g,'DE ANOS',1560,670,34,'Cinzel',700)})},.62),
+ // 18 a dica: taça inclinada sobre toalha branca
+ (t,c,s)=>C3(t,s,lab,'A DICA DO SOMMELIER',g=>{const k=ap(t,18,'incline',1);whiteCloth(g,960,640,1300,380);
+  tiltGlass(g,700,820,1.9,-.8*k,ANT.young,'#9A4AA0',-1);tiltGlass(g,1220,820,1.9,.8*k,'#6A2418','#D08A50',1);
+  chip(g,560,330,'ROXA = JOVEM',ap(t,18,'roxa'));chip(g,1360,330,'TIJOLO = MAIS VELHO',ap(t,18,'tijolo'))},.62),
+ (t,c,s)=>finalTable(t,s),
+ (t,c,s)=>ctaScene(t,c,s),
+ null];
+function finalTable(t,s){veil(null,t,lab,.8);const g=layer('g',null);goldText(g,'DE ONDE VEM A COR?',960,130,72);ornament(g,960,205,600);blit(ctx,L.g,0,seg(t,T[s],T[s]+.5));
+ const C=[['casca','CASCA','onde mora a cor','casca'],['acid','ACIDEZ','vermelho ou roxo','acidez'],['so2','ENXOFRE','apaga, mas volta','acidez'],['luz','LUZ','o vinho engole o verde','luz'],['tempo','TEMPO','roxo vira tijolo','tempo']];
+ C.forEach(([ic,n,d,w],i)=>{const cx=220+i*370,ta=wt(19,w)-.15+(ic=='so2'?.7:0),c=layer('c'+i,null);plaque(c,cx,600,330,560);
+  if(ic=='casca')halvedGrape(c,cx,560,80);else if(ic=='acid'){[ANT.red,'#6A1A66','#2E44B0'].forEach((cl,j)=>testTube(c,cx-60+j*60,680,220,cl,.65,42))}
+  else if(ic=='so2')glassW(c,cx,690,1.2,.55,'#C77A88');else if(ic=='luz'){c.fillStyle='rgba(255,255,240,.8)';c.fillRect(cx-150,560,110,22);c.fillStyle='#D8202E';c.fillRect(cx+40,560,110,22);glassW(c,cx,690,1.1,.55,ANT.wine)}
+  else glassW(c,cx,690,1.2,.55,ANT.brick);
+  goldText(c,n,cx,768,34,'Cinzel',700);blit(ctx,L['c'+i],0,seg(t,ta,ta+.45));serif(d,cx,822,d.length>18?28:32,`rgba(243,230,200,${seg(t,ta,ta+.45)})`)})}
+function ctaScene(t,cam,s){talkScene(t,cam,s,Object.assign({gest:[[0,'wave'],[2.2,'open'],[4.2,'rest']],bottles:[['red',1100]],props:(f,t)=>{tubeRack(f,520,806,[ANT.red,ANT.purple,ANT.blue])},face:t=>({mouth:.7,brow:.5})},LB));
+ const a=easeIO(seg(t,T[s]+.4,T[s]+1)),g=layer('g',null);g.save();g.globalAlpha=a;g.fillStyle='#B0122E';g.beginPath();g.roundRect(120,120,520,110,55);g.fill();g.strokeStyle=GOLD2;g.lineWidth=5;g.stroke();g.restore();
+ g.save();g.globalAlpha=a;goldText(g,'INSCREVA-SE',380,176,52,'Cinzel',900);g.restore();chip(g,380,300,'QUAL CURIOSIDADE?',ap(t,20,'curiosidade'));blit(ctx,L.g,0);
+ if(LOGO.complete){ctx.save();ctx.setTransform(1,0,0,1,0,0);ctx.globalAlpha=a;ctx.drawImage(LOGO,1640,40,230,220);ctx.restore()}}
+const TALKS=[1,6,9,13,16,20],NS=LEN.length,LOGO_S=NS-1,TABLE_S=NS-3,CTA_S=NS-2;
+FILM={dur:T[T.length-1],cuts:T.map(v=>Math.round(v*30)),fadeIn:0,fadeOut:.8,warm(){return .4},
+ cam(s,u,t){if(TALKS.includes(s)){const k=TALKS.indexOf(s)%3;return [{x:lerp(950,975,u),y:lerp(560,545,u),z:lerp(1.18,1.28,easeIO(u)),b:[6,0,0]},{x:lerp(930,915,u),y:lerp(545,520,u),z:lerp(1.32,1.48,easeIO(u)),b:[8,0,0]},{x:lerp(1000,985,u),y:550,z:lerp(1.22,1.32,u),b:[7,0,0]}][k]}return {x:960,y:540,z:1,b:[10,0,0]}},
+ draw(t,cam,s,u){if(s==0){thumbFrame(t);return}if(s==LOGO_S){photo(IMG.logo,t,T[LOGO_S],T[LOGO_S+1],1,1.05);return}SC[s](t,cam,s)},
+ plants(){return {}}};
+(function(){const DISS={1:.6},xf=mk(),xz=mk(),CARD=[2,3,4,5,7,8,10,11,12,14,15,17,18,19],draw0=FILM.draw,cam0=FILM.cam;for(let s=2;s<LOGO_S;s++)DISS[s]=.45;
+ FILM.draw=(t,c,s,u)=>{const d=DISS[s],a=d?1-easeIO(seg(t,T[s],T[s]+d)):0;if(a>0){draw0(t,cam0(s-1,1,t),s-1,1);const x=xf.getContext('2d');x.setTransform(1,0,0,1,0,0);x.clearRect(0,0,W,H);x.drawImage(main,0,0)}
+  draw0(t,c,s,u);if(CARD.includes(s)){const k=1+.035*easeIO(u),x=xz.getContext('2d');x.setTransform(1,0,0,1,0,0);x.clearRect(0,0,W,H);x.drawImage(main,0,0);ctx.save();ctx.setTransform(k,0,0,k,W/2*(1-k),H/2*(1-k));ctx.drawImage(xz,0,0);ctx.restore()}
+  if(a>0)blit(ctx,xf,0,a);if(s!=0&&s!=CTA_S&&s!=LOGO_S)watermark();if(s!=TABLE_S&&s!=LOGO_S)karaoke(t)}})();
+// som
+for(let s=1;s<LOGO_S;s++)say(T[s],'whoosh');
+for(const [i,w] of [[1,'jaleco'],[2,'meio'],[3,'antocianinas'],[4,'mirtilo'],[4,'amora'],[4,'repolho'],[6,'dois'],[8,'vermelha'],[8,'roxo'],[8,'azul'],[10,'temporário'],[11,'firmes'],[13,'joga'],[14,'amarelo'],[14,'vermelho'],[14,'azul'],[16,'blanc'],[17,'milhares'],[18,'tijolo']])say(wt(i,w),'tag');
+say(wt(9,'vivo'),'glassdown');say(wt(18,'incline'),'cloth');
+for(const w of ['casca','acidez','luz','tempo'])say(wt(19,w)-.15,'line');say(wt(19,'acidez')+.55,'line');

diff --git a/pauta/10-tinto-branco/thumb_lab.js b/pauta/10-tinto-branco/thumb_lab.js
@@ -1,0 +1,11 @@
+// DE ONDE VEM A COR DO VINHO? — abertura = thumbnail viva (opção C escolhida, agora no LABORATÓRIO)
+function thumbFrame(t){const u=easeIO(seg(t,.6,LEN[0])),cam={x:1080+u*10,y:500-u*6,z:1.7+u*.07,b:[6,0,0]};
+ let x=layer('w',cam);lab(x,t);
+ const live=t>0,sp=live?speak(t):0,wv=live?Math.sin(t*2.4)*.5+.5:0,lk=live?kf(t,[[0,-.45],[2.5,-.45],[3,.4],[5.5,.4],[6,-.45]]):-.45;
+ const p={x:1330,y:600,s:1,face:1,noLegs:true,breath:1+(live?t*2.1:0),look:lk,lookY:-.2,brow:1.15,wide:1,sad:.25,mouth:.05,open:Math.max(.5-(live?seg(t,.3,.5)*.5:0),sp),tilt:-.08+(live?Math.sin(t*1.2)*.02:0),blink:live?blinkAt(t,[1.4,3.9,6.6]):0,hands:{},arm3d:true};
+ p.hands.l=[...w2l(p,[1160,575]),90];p.hands.r=[...w2l(p,[1480,560-wv*10]),90];const hp=actor(layer('h',cam),'s',C10L,p,cam,'rgba(255,220,180,1)',1);
+ const f=layer('f',cam);labFront(f);const hl=h2w(hp,'l'),hr=h2w(hp,'r');grapesC(f,hl[0]+4,hl[1]+120,1.5);gripHand(f,hl[0],hl[1],0,C10,.85);halvedGrape(f,1000,732,62);openHand(f,hr[0],hr[1],.5,C10,.85);
+ comp([['w',10]]);ctx.save();ctx.setTransform(1,0,0,1,0,0);ctx.fillStyle='rgba(16,3,7,.42)';ctx.fillRect(0,0,W,H);ctx.restore();blit(ctx,L.h,0);blit(ctx,L.f,0);
+ ctx.save();ctx.setTransform(1,0,0,1,0,0);const v=ctx.createLinearGradient(0,0,W*.62,0);v.addColorStop(0,'rgba(16,3,7,.92)');v.addColorStop(.75,'rgba(16,3,7,.42)');v.addColorStop(1,'rgba(16,3,7,0)');ctx.fillStyle=v;ctx.fillRect(0,0,W,H);ctx.restore();
+ const T_=layer('t',null);goldText(T_,'DE ONDE VEM',545,443,101,'Cinzel',900);goldText(T_,'A COR DO VINHO?',545,553,74,'Cinzel',900);T_.fillStyle='#B0122E';T_.fillRect(205,645,680,10);blit(ctx,L.t,0);
+ if(LOGO.complete){ctx.save();ctx.setTransform(1,0,0,1,0,0);ctx.globalAlpha=.85;ctx.drawImage(LOGO,545-62,680,124,119);ctx.restore()}}
